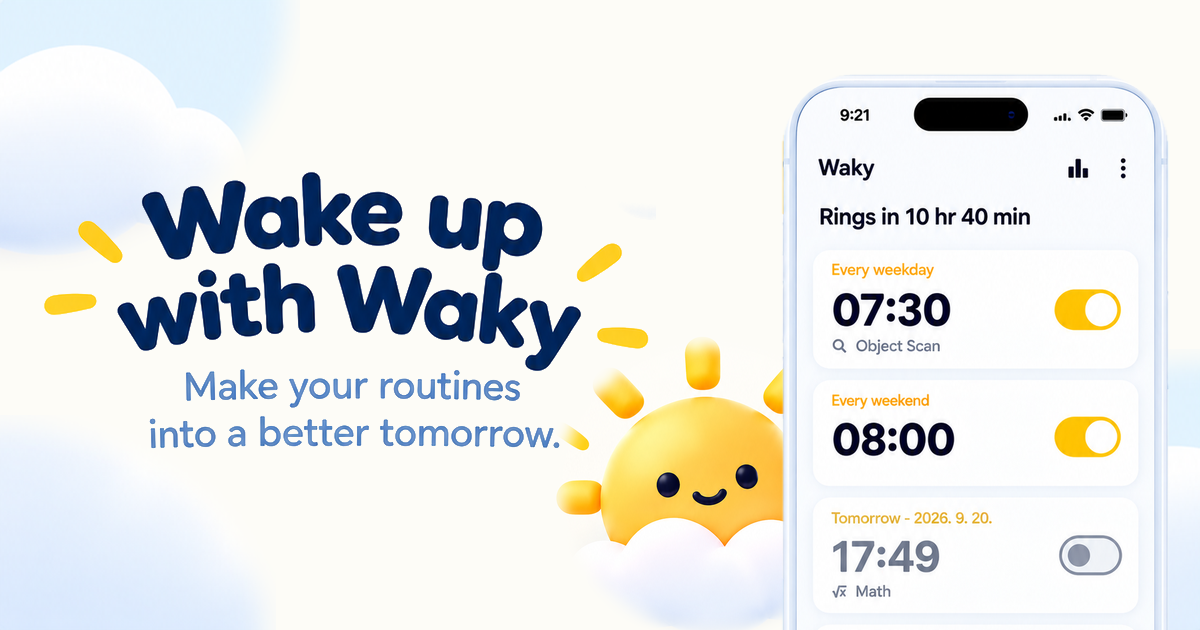
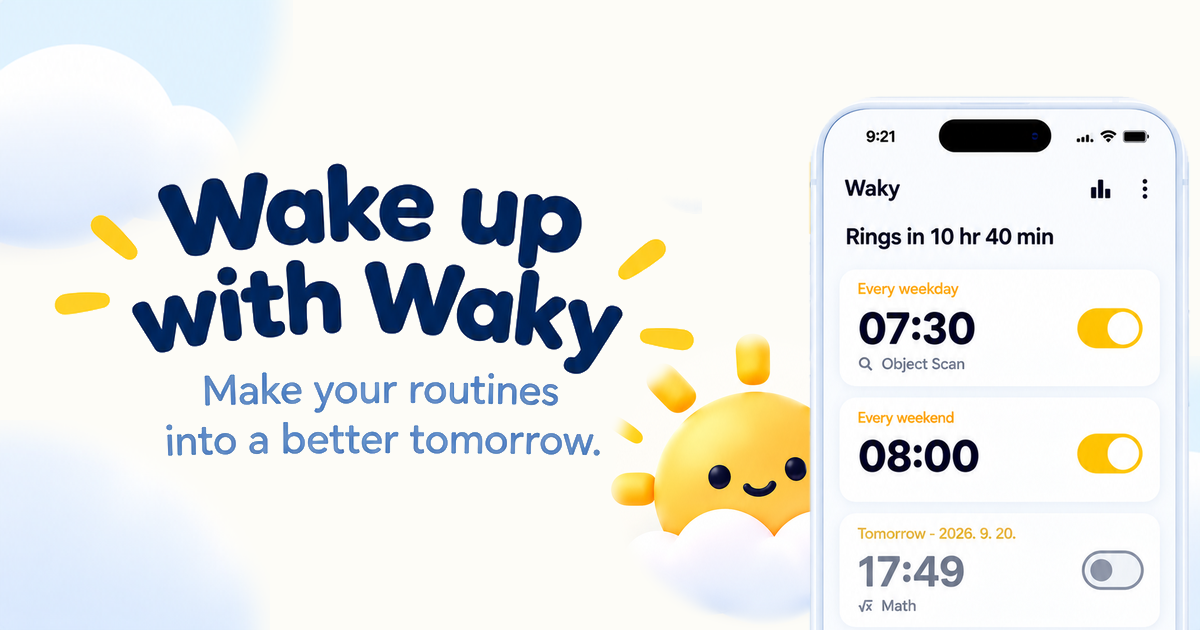
feat: 공유 미리보기를 스토어 그래픽 구성으로 15개 언어에 두고 제목·설명을 줄인다
- og:image 를 Play 피처 그래픽과 같은 구성의 1200x630 으로 15개 언어 만든다
  (scripts/make_og_image.py, waky-ios 스크린샷에서 조합). 스크린샷이 없는
  id·vi·fil 은 영어 그림을 쓴다
- 검색 결과에서 잘리던 title·description 을 13개 언어에서 60자·160자 안으로 줄인다
- 진입 주소(/, /introduce/)의 공유 미리보기를 기본 언어(영어)로 하고 site_name 을 Waky 로 고친다

Changed region(s): [[0.0308, 0.1206, 1.0, 1.0], [0.5242, 0.9651, 0.5858, 0.9952]]

diff --git a/introduce/ru/index.html b/introduce/ru/index.html
@@ -5,8 +5,8 @@
 <meta name="viewport" content="width=device-width, initial-scale=1" />
 <meta name="google-site-verification" content="3JNaFd6fvPNBA7NMsjDxFkAvM1aAESN3FrJCD46fIfc" />
 <meta name="msvalidate.01" content="CCC1C7BAFF2250CE75A2C3318980D759" />
-<title>Waky — Будильник и привычки | Будильник с миссиями, который поднимет вас</title>
-<meta name="description" content="Выключаете будильник и засыпаете снова? Waky выключается только после выполнения миссии, будит вас вашим собственным записанным голосом и помогает выработать утренние привычки. Бесплатно для iOS и Android." />
+<title>Waky — Будильник с миссиями, который поднимет вас</title>
+<meta name="description" content="Будильник Waky выключается только после миссии. Просыпайтесь под свой записанный голос и заводите утренние привычки. Бесплатно для iOS и Android." />
 <meta name="theme-color" content="#FAF5EC" />
 <meta property="og:type" content="website" />
 <meta property="og:site_name" content="Waky" />
@@ -14,7 +14,7 @@
 <meta property="og:title" content="Waky — будильник с миссиями, который действительно будит" />
 <meta property="og:description" content="Будильник, который замолкает только после миссии, звуки, записанные вами, и утренние привычки." />
 <meta property="og:url" content="https://zacolabs.github.io/waky-landing/introduce/ru/" />
-<meta property="og:image" content="https://zacolabs.github.io/waky-landing/introduce/zacolabs-assets/og-image-en-1200x630.png" />
+<meta property="og:image" content="https://zacolabs.github.io/waky-landing/introduce/zacolabs-assets/og-image-ru-1200x630.png" />
 <meta property="og:image:width" content="1200" />
 <meta property="og:image:height" content="630" />
 <meta property="og:image:alt" content="Waky — будильник с миссиями, который действительно будит" />

diff --git a/index.html b/index.html
@@ -4,19 +4,18 @@
 <meta charset="utf-8" />
 <meta name="viewport" content="width=device-width, initial-scale=1" />
 <meta name="google-site-verification" content="3JNaFd6fvPNBA7NMsjDxFkAvM1aAESN3FrJCD46fIfc" />
-<meta name="google-site-verification" content="rAAo91osYvOPP0Yz3pm0CsJnhYeOqQEqn37xbCX3l0Q" />
 <meta name="msvalidate.01" content="CCC1C7BAFF2250CE75A2C3318980D759" />
 <title>Waky</title>
 <meta name="theme-color" content="#FAF5EC" />
 <meta property="og:type" content="website" />
-<meta property="og:site_name" content="Zaco Labs" />
-<meta property="og:title" content="Waky — 확실하게 깨워 주는 미션 알람" />
-<meta property="og:description" content="미션을 풀어야 꺼지는 알람, 직접 녹음한 알람음, 아침 습관까지." />
+<meta property="og:site_name" content="Waky" />
+<meta property="og:title" content="Waky — The mission alarm that really wakes you" />
+<meta property="og:description" content="An alarm you stop by clearing a mission, sounds you record yourself, and morning habits." />
 <meta property="og:url" content="https://zacolabs.github.io/waky-landing/introduce/" />
-<meta property="og:image" content="https://zacolabs.github.io/waky-landing/introduce/zacolabs-assets/og-image-kr-1200x630.png" />
+<meta property="og:image" content="https://zacolabs.github.io/waky-landing/introduce/zacolabs-assets/og-image-en-1200x630.png" />
 <meta property="og:image:width" content="1200" />
 <meta property="og:image:height" content="630" />
-<meta property="og:image:alt" content="Waky — 확실하게 깨워 주는 미션 알람" />
+<meta property="og:image:alt" content="Waky — The mission alarm that really wakes you" />
 <meta name="twitter:card" content="summary_large_image" />
 <link rel="alternate" hreflang="ko" href="https://zacolabs.github.io/waky-landing/introduce/kr/" />
 <link rel="alternate" hreflang="en" href="https://zacolabs.github.io/waky-landing/introduce/en/" />

diff --git a/introduce/fr/index.html b/introduce/fr/index.html
@@ -5,8 +5,8 @@
 <meta name="viewport" content="width=device-width, initial-scale=1" />
 <meta name="google-site-verification" content="3JNaFd6fvPNBA7NMsjDxFkAvM1aAESN3FrJCD46fIfc" />
 <meta name="msvalidate.01" content="CCC1C7BAFF2250CE75A2C3318980D759" />
-<title>Waky — Réveil &amp; Habitudes | Le réveil à missions qui vous lève vraiment</title>
-<meta name="description" content="Vous éteignez le réveil et vous vous rendormez ? Waky ne s&#x27;arrête qu&#x27;une fois une mission réussie, vous réveille avec votre propre voix enregistrée et vous aide à prendre des habitudes matinales. Gratuit sur iOS et Android." />
+<title>Waky — Le réveil à missions qui vous lève vraiment</title>
+<meta name="description" content="Le réveil Waky ne s&#x27;arrête qu&#x27;une fois la mission réussie. Réveillez-vous avec votre propre voix et créez vos habitudes matinales. Gratuit sur iOS et Android." />
 <meta name="theme-color" content="#FAF5EC" />
 <meta property="og:type" content="website" />
 <meta property="og:site_name" content="Waky" />
@@ -14,7 +14,7 @@
 <meta property="og:title" content="Waky — Le réveil à missions qui vous réveille vraiment" />
 <meta property="og:description" content="Un réveil qu&#x27;on arrête en réussissant une mission, des sons enregistrés par vous et des habitudes matinales." />
 <meta property="og:url" content="https://zacolabs.github.io/waky-landing/introduce/fr/" />
-<meta property="og:image" content="https://zacolabs.github.io/waky-landing/introduce/zacolabs-assets/og-image-en-1200x630.png" />
+<meta property="og:image" content="https://zacolabs.github.io/waky-landing/introduce/zacolabs-assets/og-image-fr-1200x630.png" />
 <meta property="og:image:width" content="1200" />
 <meta property="og:image:height" content="630" />
 <meta property="og:image:alt" content="Waky — Le réveil à missions qui vous réveille vraiment" />

diff --git a/introduce/de/index.html b/introduce/de/index.html
@@ -5,8 +5,8 @@
 <meta name="viewport" content="width=device-width, initial-scale=1" />
 <meta name="google-site-verification" content="3JNaFd6fvPNBA7NMsjDxFkAvM1aAESN3FrJCD46fIfc" />
 <meta name="msvalidate.01" content="CCC1C7BAFF2250CE75A2C3318980D759" />
-<title>Waky — Wecker &amp; Routinen | Der Missions-Wecker, der dich wirklich weckt</title>
-<meta name="description" content="Wecker aus und wieder eingeschlafen? Waky lässt sich erst nach einer gelösten Mission ausschalten, weckt dich mit deiner eigenen aufgenommenen Stimme und hilft dir beim Aufbau von Morgenroutinen. Kostenlos für iOS und Android." />
+<title>Waky — Der Missions-Wecker, der dich wirklich weckt</title>
+<meta name="description" content="Der Waky-Wecker verstummt erst nach einer gelösten Mission. Wach auf mit deiner eigenen Stimme und bau Morgenroutinen auf. Kostenlos für iOS und Android." />
 <meta name="theme-color" content="#FAF5EC" />
 <meta property="og:type" content="website" />
 <meta property="og:site_name" content="Waky" />
@@ -14,7 +14,7 @@
 <meta property="og:title" content="Waky — Der Missions-Wecker, der dich wirklich weckt" />
 <meta property="og:description" content="Ein Wecker, der erst nach einer Mission verstummt, selbst aufgenommene Wecktöne und Morgenroutinen." />
 <meta property="og:url" content="https://zacolabs.github.io/waky-landing/introduce/de/" />
-<meta property="og:image" content="https://zacolabs.github.io/waky-landing/introduce/zacolabs-assets/og-image-en-1200x630.png" />
+<meta property="og:image" content="https://zacolabs.github.io/waky-landing/introduce/zacolabs-assets/og-image-de-1200x630.png" />
 <meta property="og:image:width" content="1200" />
 <meta property="og:image:height" content="630" />
 <meta property="og:image:alt" content="Waky — Der Missions-Wecker, der dich wirklich weckt" />

diff --git a/introduce/pt/index.html b/introduce/pt/index.html
@@ -5,8 +5,8 @@
 <meta name="viewport" content="width=device-width, initial-scale=1" />
 <meta name="google-site-verification" content="3JNaFd6fvPNBA7NMsjDxFkAvM1aAESN3FrJCD46fIfc" />
 <meta name="msvalidate.01" content="CCC1C7BAFF2250CE75A2C3318980D759" />
-<title>Waky — Despertador e Hábitos | O alarme com missões que tira você da cama</title>
-<meta name="description" content="Desliga o alarme e volta a dormir? No Waky o alarme só para quando você cumpre uma missão, ele acorda você com a sua própria voz gravada e ajuda a criar hábitos matinais. Grátis no iOS e no Android." />
+<title>Waky — Despertador com missões que tira você da cama</title>
+<meta name="description" content="O alarme do Waky só para quando você cumpre uma missão. Acorde com a sua própria voz gravada e crie hábitos matinais. Grátis no iOS e no Android." />
 <meta name="theme-color" content="#FAF5EC" />
 <meta property="og:type" content="website" />
 <meta property="og:site_name" content="Waky" />
@@ -14,7 +14,7 @@
 <meta property="og:title" content="Waky — O alarme com missões que acorda de verdade" />
 <meta property="og:description" content="Um alarme que só para com uma missão, sons gravados por você e hábitos matinais." />
 <meta property="og:url" content="https://zacolabs.github.io/waky-landing/introduce/pt/" />
-<meta property="og:image" content="https://zacolabs.github.io/waky-landing/introduce/zacolabs-assets/og-image-en-1200x630.png" />
+<meta property="og:image" content="https://zacolabs.github.io/waky-landing/introduce/zacolabs-assets/og-image-pt-1200x630.png" />
 <meta property="og:image:width" content="1200" />
 <meta property="og:image:height" content="630" />
 <meta property="og:image:alt" content="Waky — O alarme com missões que acorda de verdade" />

diff --git a/introduce/es/index.html b/introduce/es/index.html
@@ -5,8 +5,8 @@
 <meta name="viewport" content="width=device-width, initial-scale=1" />
 <meta name="google-site-verification" content="3JNaFd6fvPNBA7NMsjDxFkAvM1aAESN3FrJCD46fIfc" />
 <meta name="msvalidate.01" content="CCC1C7BAFF2250CE75A2C3318980D759" />
-<title>Waky — Despertador y Hábitos | La alarma con misiones que te levanta</title>
-<meta name="description" content="¿Apagas la alarma y vuelves a dormirte? Con Waky solo se apaga al superar una misión, te despierta con tu propia voz grabada y te ayuda a crear hábitos matutinos. Gratis en iOS y Android." />
+<title>Waky — Despertador con misiones que te levanta de verdad</title>
+<meta name="description" content="La alarma de Waky solo se apaga al superar una misión. Despierta con tu propia voz grabada y crea hábitos matutinos. Gratis en iOS y Android." />
 <meta name="theme-color" content="#FAF5EC" />
 <meta property="og:type" content="website" />
 <meta property="og:site_name" content="Waky" />
@@ -14,7 +14,7 @@
 <meta property="og:title" content="Waky — La alarma con misiones que de verdad te despierta" />
 <meta property="og:description" content="Una alarma que se apaga al superar una misión, sonidos grabados por ti y hábitos matutinos." />
 <meta property="og:url" content="https://zacolabs.github.io/waky-landing/introduce/es/" />
-<meta property="og:image" content="https://zacolabs.github.io/waky-landing/introduce/zacolabs-assets/og-image-en-1200x630.png" />
+<meta property="og:image" content="https://zacolabs.github.io/waky-landing/introduce/zacolabs-assets/og-image-es-1200x630.png" />
 <meta property="og:image:width" content="1200" />
 <meta property="og:image:height" content="630" />
 <meta property="og:image:alt" content="Waky — La alarma con misiones que de verdad te despierta" />

diff --git a/introduce/it/index.html b/introduce/it/index.html
@@ -5,8 +5,8 @@
 <meta name="viewport" content="width=device-width, initial-scale=1" />
 <meta name="google-site-verification" content="3JNaFd6fvPNBA7NMsjDxFkAvM1aAESN3FrJCD46fIfc" />
 <meta name="msvalidate.01" content="CCC1C7BAFF2250CE75A2C3318980D759" />
-<title>Waky — Sveglia &amp; Routine | La sveglia a missioni che ti alza davvero</title>
-<meta name="description" content="Spegni la sveglia e ti riaddormenti? Waky si spegne solo dopo aver completato una missione, ti sveglia con la tua voce registrata e ti aiuta a creare abitudini mattutine. Gratis su iOS e Android." />
+<title>Waky — La sveglia a missioni che ti alza davvero</title>
+<meta name="description" content="La sveglia di Waky si spegne solo dopo una missione. Svegliati con la tua voce registrata e crea abitudini mattutine. Gratis su iOS e Android." />
 <meta name="theme-color" content="#FAF5EC" />
 <meta property="og:type" content="website" />
 <meta property="og:site_name" content="Waky" />
@@ -14,7 +14,7 @@
 <meta property="og:title" content="Waky — La sveglia a missioni che ti sveglia davvero" />
 <meta property="og:description" content="Una sveglia che si spegne completando una missione, suoni registrati da te e abitudini mattutine." />
 <meta property="og:url" content="https://zacolabs.github.io/waky-landing/introduce/it/" />
-<meta property="og:image" content="https://zacolabs.github.io/waky-landing/introduce/zacolabs-assets/og-image-en-1200x630.png" />
+<meta property="og:image" content="https://zacolabs.github.io/waky-landing/introduce/zacolabs-assets/og-image-it-1200x630.png" />
 <meta property="og:image:width" content="1200" />
 <meta property="og:image:height" content="630" />
 <meta property="og:image:alt" content="Waky — La sveglia a missioni che ti sveglia davvero" />

diff --git a/introduce/pl/index.html b/introduce/pl/index.html
@@ -5,8 +5,8 @@
 <meta name="viewport" content="width=device-width, initial-scale=1" />
 <meta name="google-site-verification" content="3JNaFd6fvPNBA7NMsjDxFkAvM1aAESN3FrJCD46fIfc" />
 <meta name="msvalidate.01" content="CCC1C7BAFF2250CE75A2C3318980D759" />
-<title>Waky — Budzik i nawyki | Budzik z misjami, który naprawdę stawia na nogi</title>
-<meta name="description" content="Wyłączasz budzik i zasypiasz z powrotem? Waky wyłącza się dopiero po wykonaniu misji, budzi Cię Twoim własnym nagranym głosem i pomaga budować poranne nawyki. Za darmo na iOS i Androida." />
+<title>Waky — Budzik z misjami, który naprawdę stawia na nogi</title>
+<meta name="description" content="Budzik Waky wyłącza się dopiero po wykonaniu misji. Budź się przy własnym nagranym głosie i buduj poranne nawyki. Za darmo na iOS i Androida." />
 <meta name="theme-color" content="#FAF5EC" />
 <meta property="og:type" content="website" />
 <meta property="og:site_name" content="Waky" />
@@ -14,7 +14,7 @@
 <meta property="og:title" content="Waky — Budzik z misjami, który naprawdę budzi" />
 <meta property="og:description" content="Budzik, który milknie dopiero po misji, dźwięki nagrane przez Ciebie i poranne nawyki." />
 <meta property="og:url" content="https://zacolabs.github.io/waky-landing/introduce/pl/" />
-<meta property="og:image" content="https://zacolabs.github.io/waky-landing/introduce/zacolabs-assets/og-image-en-1200x630.png" />
+<meta property="og:image" content="https://zacolabs.github.io/waky-landing/introduce/zacolabs-assets/og-image-pl-1200x630.png" />
 <meta property="og:image:width" content="1200" />
 <meta property="og:image:height" content="630" />
 <meta property="og:image:alt" content="Waky — Budzik z misjami, który naprawdę budzi" />

diff --git a/introduce/nl/index.html b/introduce/nl/index.html
@@ -5,8 +5,8 @@
 <meta name="viewport" content="width=device-width, initial-scale=1" />
 <meta name="google-site-verification" content="3JNaFd6fvPNBA7NMsjDxFkAvM1aAESN3FrJCD46fIfc" />
 <meta name="msvalidate.01" content="CCC1C7BAFF2250CE75A2C3318980D759" />
-<title>Waky — Wekker &amp; Gewoonten | De missiewekker die je echt uit bed krijgt</title>
-<meta name="description" content="Wekker uit en weer in slaap? Waky stopt pas als je een missie voltooit, maakt je wakker met je eigen opgenomen stem en helpt je ochtendgewoonten op te bouwen. Gratis voor iOS en Android." />
+<title>Waky — De missiewekker die je echt uit bed krijgt</title>
+<meta name="description" content="De wekker van Waky stopt pas na een voltooide missie. Word wakker met je eigen opgenomen stem en bouw ochtendgewoonten op. Gratis voor iOS en Android." />
 <meta name="theme-color" content="#FAF5EC" />
 <meta property="og:type" content="website" />
 <meta property="og:site_name" content="Waky" />
@@ -14,7 +14,7 @@
 <meta property="og:title" content="Waky — De missiewekker die je echt wakker maakt" />
 <meta property="og:description" content="Een wekker die pas stopt na een missie, zelf opgenomen geluiden en ochtendgewoonten." />
 <meta property="og:url" content="https://zacolabs.github.io/waky-landing/introduce/nl/" />
-<meta property="og:image" content="https://zacolabs.github.io/waky-landing/introduce/zacolabs-assets/og-image-en-1200x630.png" />
+<meta property="og:image" content="https://zacolabs.github.io/waky-landing/introduce/zacolabs-assets/og-image-nl-1200x630.png" />
 <meta property="og:image:width" content="1200" />
 <meta property="og:image:height" content="630" />
 <meta property="og:image:alt" content="Waky — De missiewekker die je echt wakker maakt" />

diff --git a/introduce/da/index.html b/introduce/da/index.html
@@ -6,7 +6,7 @@
 <meta name="google-site-verification" content="3JNaFd6fvPNBA7NMsjDxFkAvM1aAESN3FrJCD46fIfc" />
 <meta name="msvalidate.01" content="CCC1C7BAFF2250CE75A2C3318980D759" />
 <title>Waky — Vækkeur &amp; Rutiner | Missionsalarmen, der får dig op</title>
-<meta name="description" content="Slukker du alarmen og falder i søvn igen? Waky stopper først, når du har klaret en mission, vækker dig med din egen optagede stemme og hjælper dig med at skabe morgenvaner. Gratis på iOS og Android." />
+<meta name="description" content="Wakys alarm stopper først, når du har klaret en mission. Vågn op til din egen optagede stemme, og skab morgenvaner. Gratis på iOS og Android." />
 <meta name="theme-color" content="#FAF5EC" />
 <meta property="og:type" content="website" />
 <meta property="og:site_name" content="Waky" />
@@ -14,7 +14,7 @@
 <meta property="og:title" content="Waky — Missionsalarmen, der virkelig vækker dig" />
 <meta property="og:description" content="En alarm, der først stopper efter en mission, lyde du selv optager, og morgenvaner." />
 <meta property="og:url" content="https://zacolabs.github.io/waky-landing/introduce/da/" />
-<meta property="og:image" content="https://zacolabs.github.io/waky-landing/introduce/zacolabs-assets/og-image-en-1200x630.png" />
+<meta property="og:image" content="https://zacolabs.github.io/waky-landing/introduce/zacolabs-assets/og-image-da-1200x630.png" />
 <meta property="og:image:width" content="1200" />
 <meta property="og:image:height" content="630" />
 <meta property="og:image:alt" content="Waky — Missionsalarmen, der virkelig vækker dig" />

diff --git a/introduce/index.html b/introduce/index.html
@@ -8,14 +8,14 @@
 <title>Waky</title>
 <meta name="theme-color" content="#FAF5EC" />
 <meta property="og:type" content="website" />
-<meta property="og:site_name" content="Zaco Labs" />
-<meta property="og:title" content="Waky — 확실하게 깨워 주는 미션 알람" />
-<meta property="og:description" content="미션을 풀어야 꺼지는 알람, 직접 녹음한 알람음, 아침 습관까지." />
+<meta property="og:site_name" content="Waky" />
+<meta property="og:title" content="Waky — The mission alarm that really wakes you" />
+<meta property="og:description" content="An alarm you stop by clearing a mission, sounds you record yourself, and morning habits." />
 <meta property="og:url" content="https://zacolabs.github.io/waky-landing/introduce/" />
-<meta property="og:image" content="https://zacolabs.github.io/waky-landing/introduce/zacolabs-assets/og-image-kr-1200x630.png" />
+<meta property="og:image" content="https://zacolabs.github.io/waky-landing/introduce/zacolabs-assets/og-image-en-1200x630.png" />
 <meta property="og:image:width" content="1200" />
 <meta property="og:image:height" content="630" />
-<meta property="og:image:alt" content="Waky — 확실하게 깨워 주는 미션 알람" />
+<meta property="og:image:alt" content="Waky — The mission alarm that really wakes you" />
 <meta name="twitter:card" content="summary_large_image" />
 <link rel="alternate" hreflang="ko" href="https://zacolabs.github.io/waky-landing/introduce/kr/" />
 <link rel="alternate" hreflang="en" href="https://zacolabs.github.io/waky-landing/introduce/en/" />

diff --git a/introduce/vi/index.html b/introduce/vi/index.html
@@ -5,8 +5,8 @@
 <meta name="viewport" content="width=device-width, initial-scale=1" />
 <meta name="google-site-verification" content="3JNaFd6fvPNBA7NMsjDxFkAvM1aAESN3FrJCD46fIfc" />
 <meta name="msvalidate.01" content="CCC1C7BAFF2250CE75A2C3318980D759" />
-<title>Waky — Báo thức nhiệm vụ &amp; Thói quen | Báo thức đánh thức bạn thật sự</title>
-<meta name="description" content="Tắt báo thức rồi ngủ tiếp? Waky chỉ dừng khi bạn hoàn thành nhiệm vụ, đánh thức bạn bằng chính giọng nói bạn thu âm và giúp bạn xây dựng thói quen buổi sáng. Miễn phí trên iOS và Android." />
+<title>Waky — Báo thức nhiệm vụ đánh thức bạn thật sự</title>
+<meta name="description" content="Báo thức Waky chỉ dừng khi bạn hoàn thành nhiệm vụ. Thức dậy bằng chính giọng nói bạn thu âm và xây dựng thói quen buổi sáng. Miễn phí trên iOS và Android." />
 <meta name="theme-color" content="#FAF5EC" />
 <meta property="og:type" content="website" />
 <meta property="og:site_name" content="Waky" />
